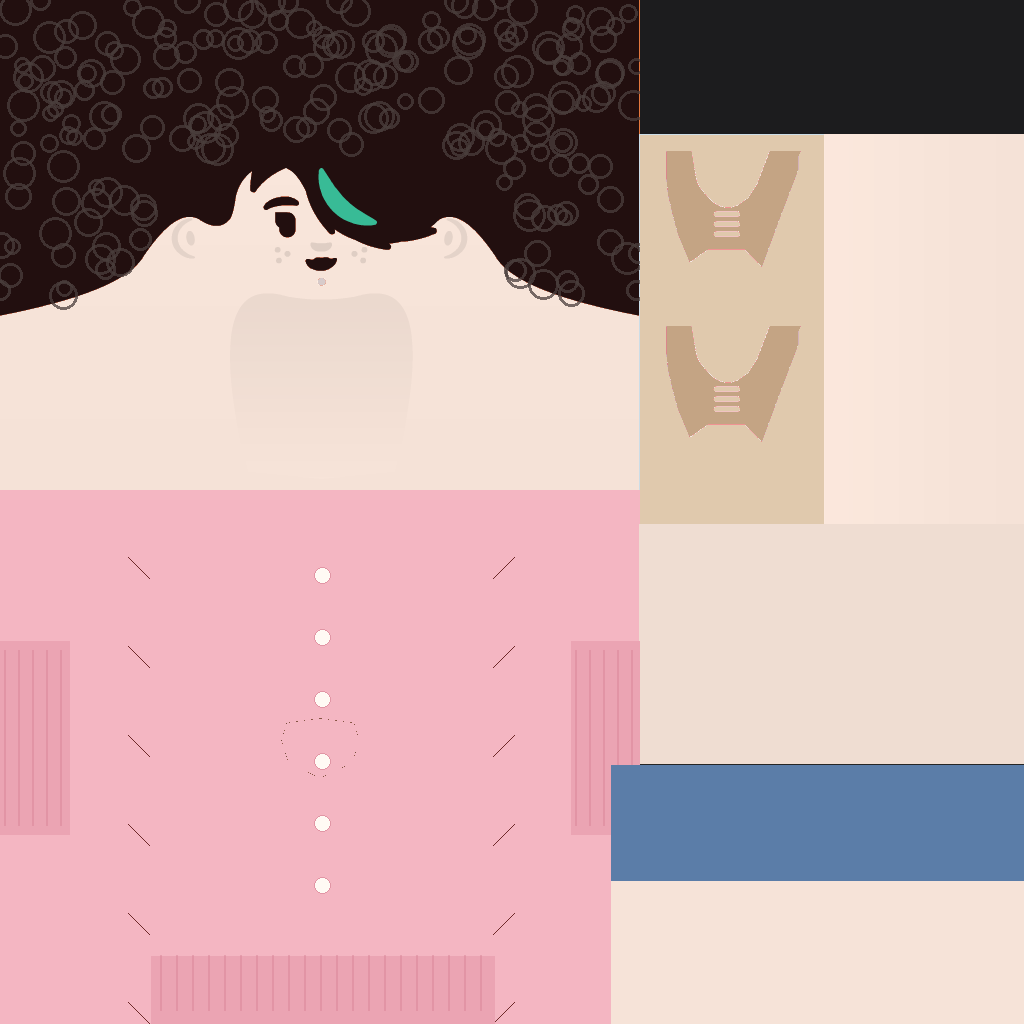
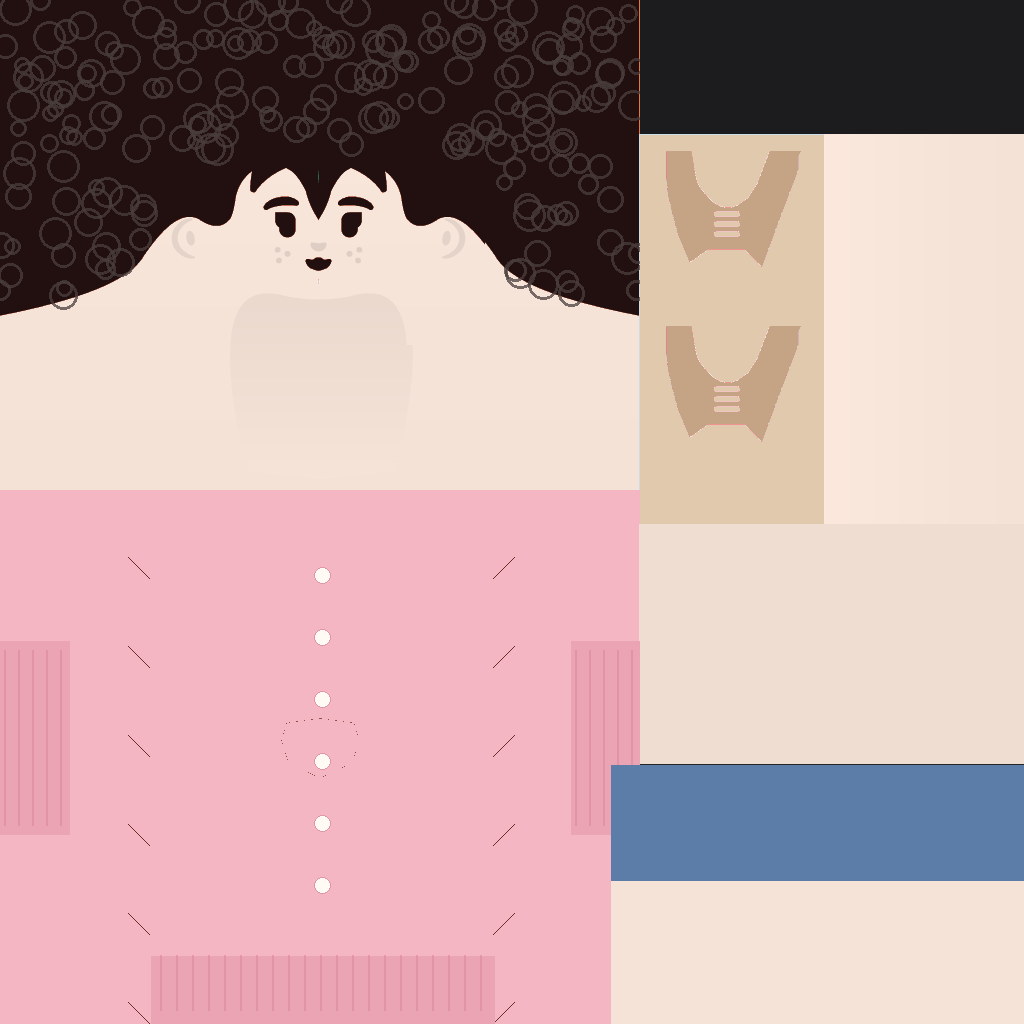
Unity: symmetric face (left half mirrored onto the right)
Claude-Session: https://claude.ai/code/session_01A8L1Rg5C6iHvLgDbtofTmN

Changed region(s): [[0.3125, 0.1562, 0.4375, 0.2812]]

diff --git a/mom-game-unity/Tools/make_skins.py b/mom-game-unity/Tools/make_skins.py
@@ -46,6 +46,10 @@ def paint(variant):
     # head: keep Kenney's original face + hair (only skin tone changed above); add perm curls on the hair
     F = (xx < 640) & (yy < 490)
     face_box = (xx > 150) & (xx < 500) & (yy > 150) & (yy < 340)
+    # make the face symmetric: the left half (with the eye, brow and freckles) is mirrored onto the right
+    CX = 318
+    for x in range(CX, 485):
+        out[140:345, x] = out[140:345, 2 * CX - x]
     hair_mask = F & dark & ~face_box
     im = Image.fromarray(np.clip(out, 0, 255).astype('uint8'))
     d = ImageDraw.Draw(im, 'RGBA')
